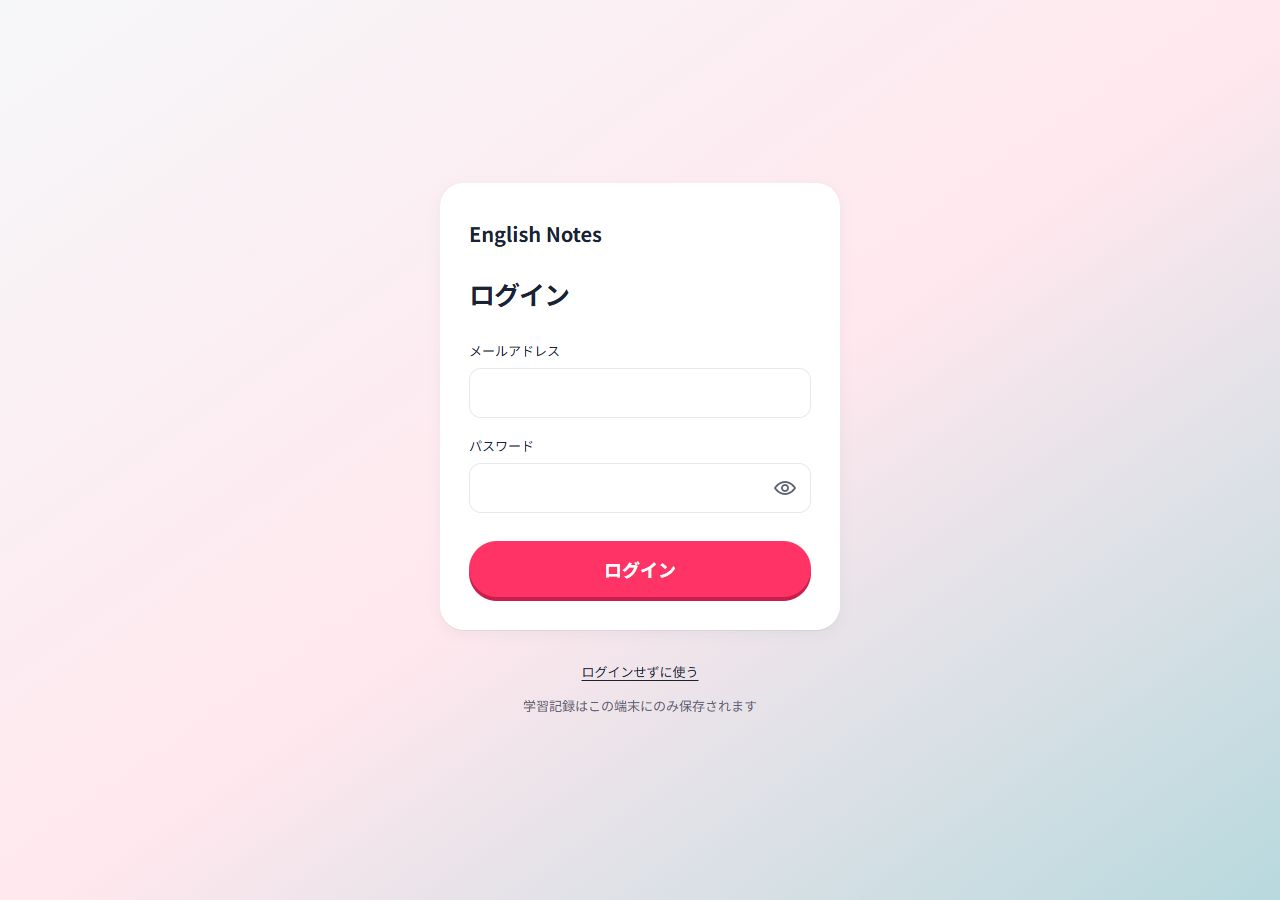
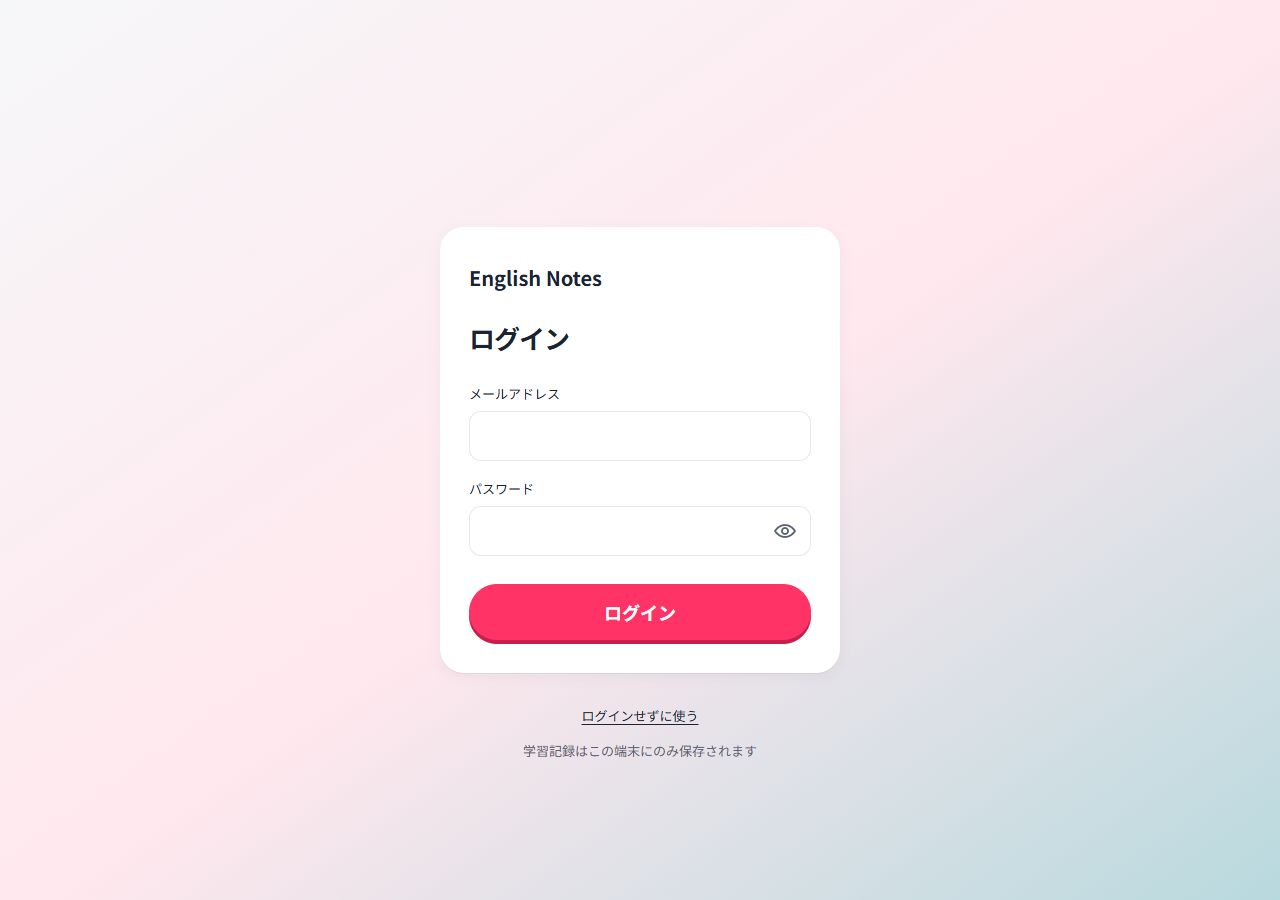
Centre login glass card independently of guest links

diff --git a/stage65.css b/stage65.css
@@ -58,3 +58,8 @@
 @media(prefers-reduced-transparency:reduce){.login-card{background:var(--color-surface);backdrop-filter:none}.login-shape{display:none}}
 @media(prefers-reduced-motion:reduce){.account65-primary{transition:none}.account65-primary:active{transform:none;box-shadow:var(--shadow-primary)}}
 .login-screen:focus,.account-screen:focus{outline:none}
+
+/* Centre the glass card itself; guest access sits just below it. */
+.login-wrap>.login-guest{position:absolute;top:100%;left:50%;transform:translateX(-50%);white-space:nowrap}
+.login-wrap>.login-note{position:absolute;top:calc(100% + 66px);left:0;width:100%}
+@media(max-height:680px){.login-wrap{margin-bottom:120px}}

diff --git a/docs/stage65-ui-report.md b/docs/stage65-ui-report.md
@@ -40,7 +40,7 @@
 
 ## スクリーンショット
 
-全て模擬接続・模擬データ。取り込み確認は1件の記録がある状態。
+ログインの2枚は通常起動の未ログイン画面。アカウント・学習設定・データ管理・取り込み確認は模擬接続・模擬データ。取り込み確認は1件の記録がある状態。ログインカードの中心は390px時にy=422px、1280px時にy=450pxで画面中央を確認。
 
 | 画面 | 390px | 1280px |
 |---|---|---|
